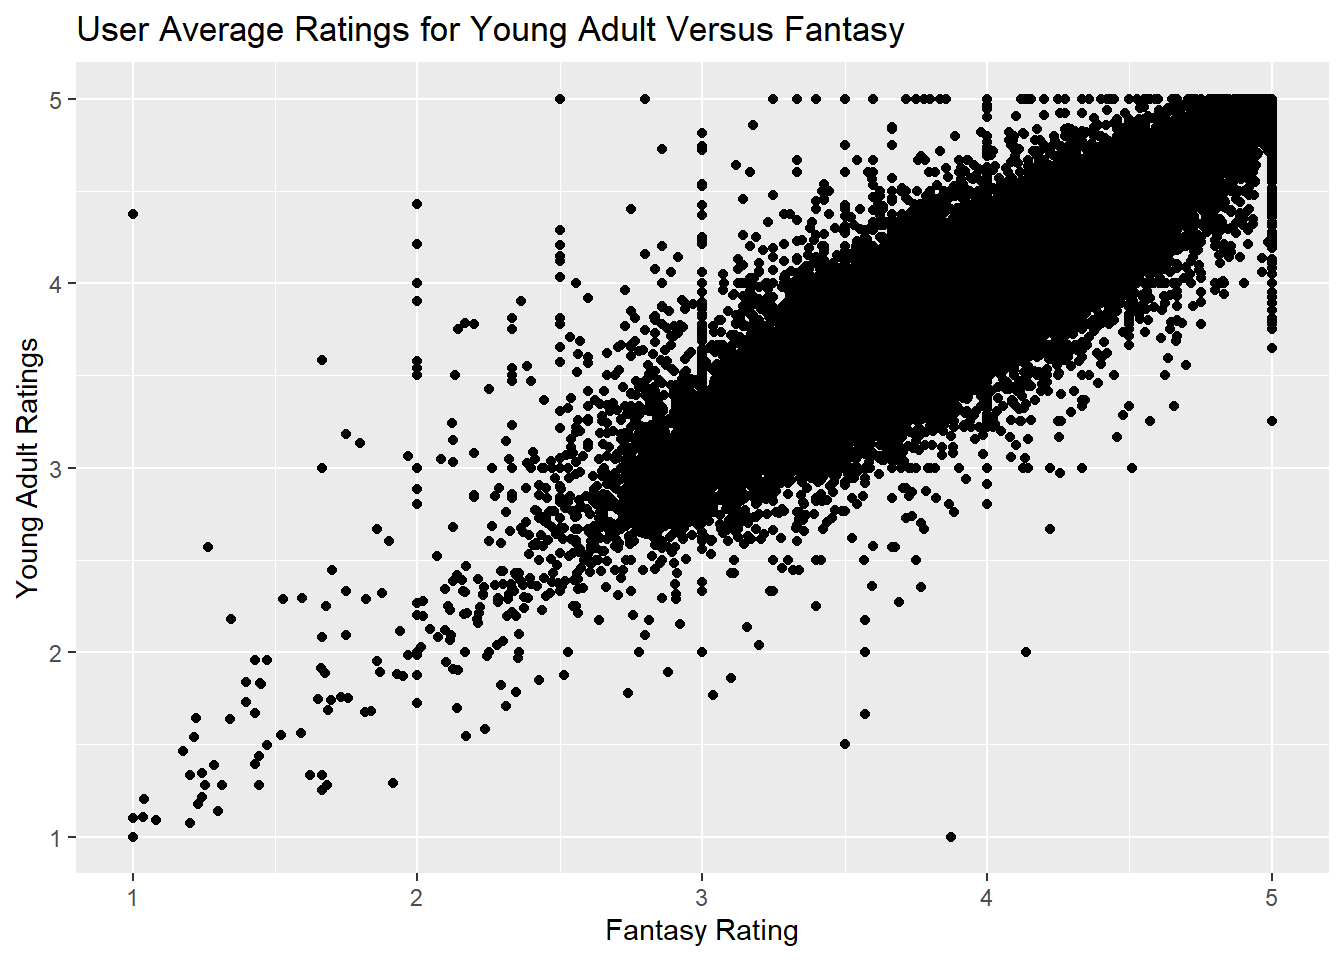
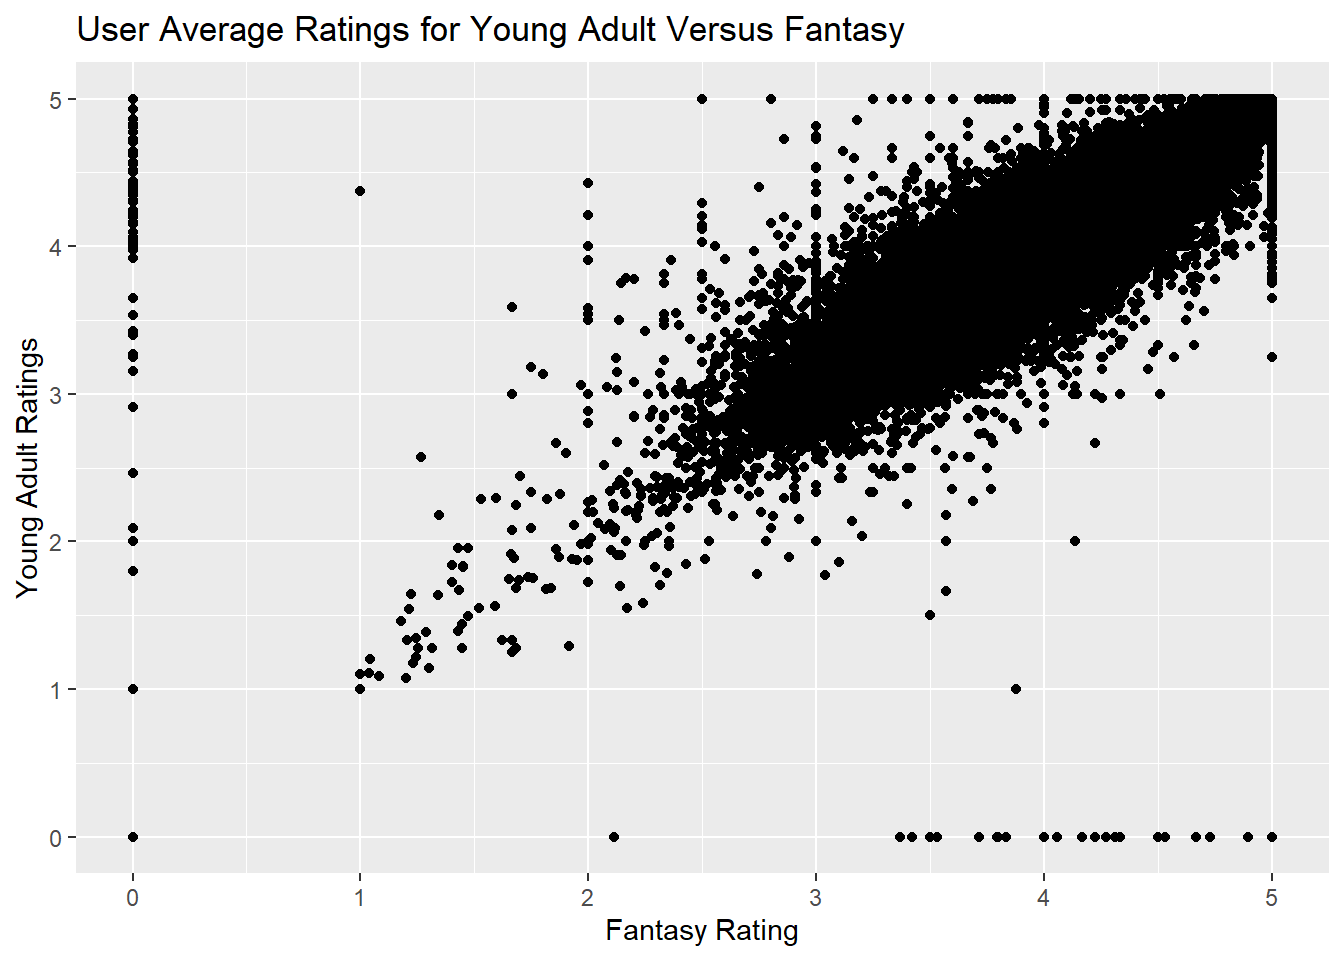
Trying to cluster with kmeans

diff --git a/docs/index.html b/docs/index.html
@@ -430,46 +430,80 @@ user_features_raw_df &lt;- ratings_df %&gt;%
 
 user_features_df &lt;- user_features_raw_df %&gt;%
   group_by(user_id) %&gt;%
-  summarize_all(mean, na.rm=TRUE)
+  summarize_all(mean, na.rm=TRUE) %&gt;%
+  mutate_if(~ any(is.na(.x)),~ if_else(is.na(.x),0,.x)) # Replace na with 0 for now...
+
+# Convert to snake case
+colnames(user_features_df) = to_snake_case(colnames(user_features_df))
 
 head(user_features_df, 15)</code></pre>
 <pre><code>## # A tibble: 15 x 9
-##    user_id fantasy horror mystery `realistic-fict~ romance `science-fictio~
-##      &lt;int&gt;   &lt;dbl&gt;  &lt;dbl&gt;   &lt;dbl&gt;            &lt;dbl&gt;   &lt;dbl&gt;            &lt;dbl&gt;
-##  1       1    3.55   3.29    3.4              3.51    3.45             3.14
-##  2       2    4.85   5       4.9              4.38    4.12             4.75
-##  3       3    1.45   1.5     1.24             2       1.76             1.17
-##  4       4    3.90   3.59    3.55             3.65    3.44             3.54
-##  5       5    4.11   4.03    4.03             3.95    3.93             4.11
-##  6       6    4.2    4.25    4.14             4.29    4.43             4.17
-##  7       7    3.79   3.78    3.76             4       3.51             3.76
-##  8       8    4.09   3.95    3.81             3.25    3.17             4.42
-##  9       9    3.66   3.67    3.25             3.37    3.52             3.58
-## 10      10    4.02   3.88    3.92             3.86    3.76             3.89
-## 11      11    3.63   3.69    3.42             3.59    3.44             3.4 
-## 12      12    3.54   3.38    3.85             3.86    3.56             3.81
-## 13      13    3.64   4       4.33             4.29    4.11             4   
-## 14      14    3.61   3.6     3.6              3.08    3.32             3.66
-## 15      15    4.26   4.45    4                4.35    4.31             4.33
-## # ... with 2 more variables: thriller &lt;dbl&gt;, `young-adult` &lt;dbl&gt;</code></pre>
+##    user_id fantasy horror mystery realistic_ficti~ romance science_fiction
+##      &lt;int&gt;   &lt;dbl&gt;  &lt;dbl&gt;   &lt;dbl&gt;            &lt;dbl&gt;   &lt;dbl&gt;           &lt;dbl&gt;
+##  1       1    3.55   3.29    3.4              3.51    3.45            3.14
+##  2       2    4.85   5       4.9              4.38    4.12            4.75
+##  3       3    1.45   1.5     1.24             2       1.76            1.17
+##  4       4    3.90   3.59    3.55             3.65    3.44            3.54
+##  5       5    4.11   4.03    4.03             3.95    3.93            4.11
+##  6       6    4.2    4.25    4.14             4.29    4.43            4.17
+##  7       7    3.79   3.78    3.76             4       3.51            3.76
+##  8       8    4.09   3.95    3.81             3.25    3.17            4.42
+##  9       9    3.66   3.67    3.25             3.37    3.52            3.58
+## 10      10    4.02   3.88    3.92             3.86    3.76            3.89
+## 11      11    3.63   3.69    3.42             3.59    3.44            3.4 
+## 12      12    3.54   3.38    3.85             3.86    3.56            3.81
+## 13      13    3.64   4       4.33             4.29    4.11            4   
+## 14      14    3.61   3.6     3.6              3.08    3.32            3.66
+## 15      15    4.26   4.45    4                4.35    4.31            4.33
+## # ... with 2 more variables: thriller &lt;dbl&gt;, young_adult &lt;dbl&gt;</code></pre>
 </div>
 <div id="data-analysis-and-visualization" class="section level1">
 <h1>Data Analysis and Visualization</h1>
 <p>One way we can better understand our data is through visualization. For example, if we want to see where the readership lies on average ratings for young adult and fantasy by plotting a 2D scatterplot. From the graph, it appears most users are clustered from 3 to 5, and there is not a strong overall preference for one genre versus the other.</p>
-<pre class="r"><code>ggplot(user_features_df, mapping=aes(x=fantasy, y=`young-adult`)) +
+<pre class="r"><code>ggplot(user_features_df, mapping=aes(x=fantasy, y=young_adult)) +
   geom_point() +
   labs(
     title=&quot;User Average Ratings for Young Adult Versus Fantasy&quot;,
     x=&quot;Fantasy Rating&quot;,
     y=&quot;Young Adult Ratings&quot;
   )</code></pre>
-<pre><code>## Warning: Removed 105 rows containing missing values (geom_point).</code></pre>
 <p><img src="index_files/figure-html/unnamed-chunk-6-1.png" width="672" /></p>
-<pre class="r"><code># TODO: maybe also do ANOVA??</code></pre>
+<pre class="r"><code># K-Menas
+# TODO: look at variance
+
+data &lt;- user_features_df %&gt;%
+  select(-user_id,)
+
+kmeans_res &lt;- kmeans(data, 10)</code></pre>
+<pre><code>## Warning: Quick-TRANSfer stage steps exceeded maximum (= 2671050)</code></pre>
+<pre class="r"><code>kmeans_res$centers</code></pre>
+<pre><code>##     fantasy    horror  mystery realistic_fiction  romance science_fiction
+## 1  3.992108 3.8726226 3.952639        3.88462003 3.901160       3.9586879
+## 2  4.290847 3.0172306 4.156307        4.09673801 4.087266       4.1488551
+## 3  3.672635 3.5193968 3.636824        3.60396455 3.595787       3.6221625
+## 4  4.001380 0.1175622 4.176644        4.11111850 4.142363       3.3191235
+## 5  4.317416 4.2267007 4.291889        4.20890536 4.243940       4.2968034
+## 6  4.722269 4.7008788 4.716875        4.64035308 4.677468       4.7147891
+## 7  3.305338 3.1248100 3.276012        3.25531966 3.238547       3.2343613
+## 8  2.610764 2.2920146 2.656816        2.62709014 2.673249       2.4115432
+## 9  4.121587 4.0848265 4.118731        0.08755274 4.078533       4.1470257
+## 10 3.963528 4.1440410 4.098890        3.95871322 4.096489       0.1796111
+##     thriller young_adult
+## 1  3.9082000    3.989037
+## 2  0.1243132    4.223674
+## 3  3.5845156    3.688346
+## 4  4.1577156    4.179436
+## 5  4.2647588    4.305581
+## 6  4.7151870    4.702929
+## 7  3.2101820    3.332261
+## 8  2.4561217    2.751980
+## 9  4.0818888    4.081864
+## 10 3.9385903    4.041933</code></pre>
+<pre class="r"><code>autoplot(kmeans_res, data=data)</code></pre>
+<p><img src="index_files/figure-html/unnamed-chunk-7-1.png" width="672" /></p>
 </div>
 <div id="predictions" class="section level1">
 <h1>Predictions</h1>
-<pre class="r"><code># TODO: kmeans clustering</code></pre>
 </div>
 <div id="conclusion" class="section level1">
 <h1>Conclusion</h1>
